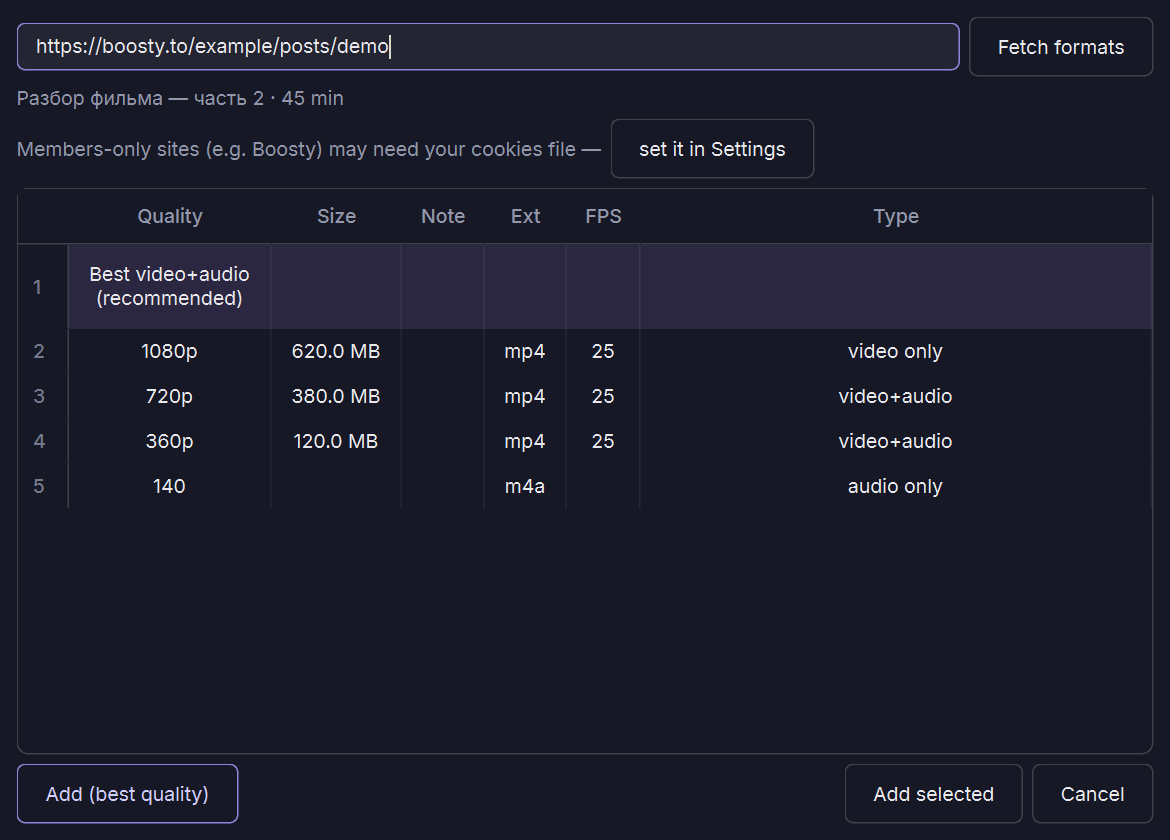
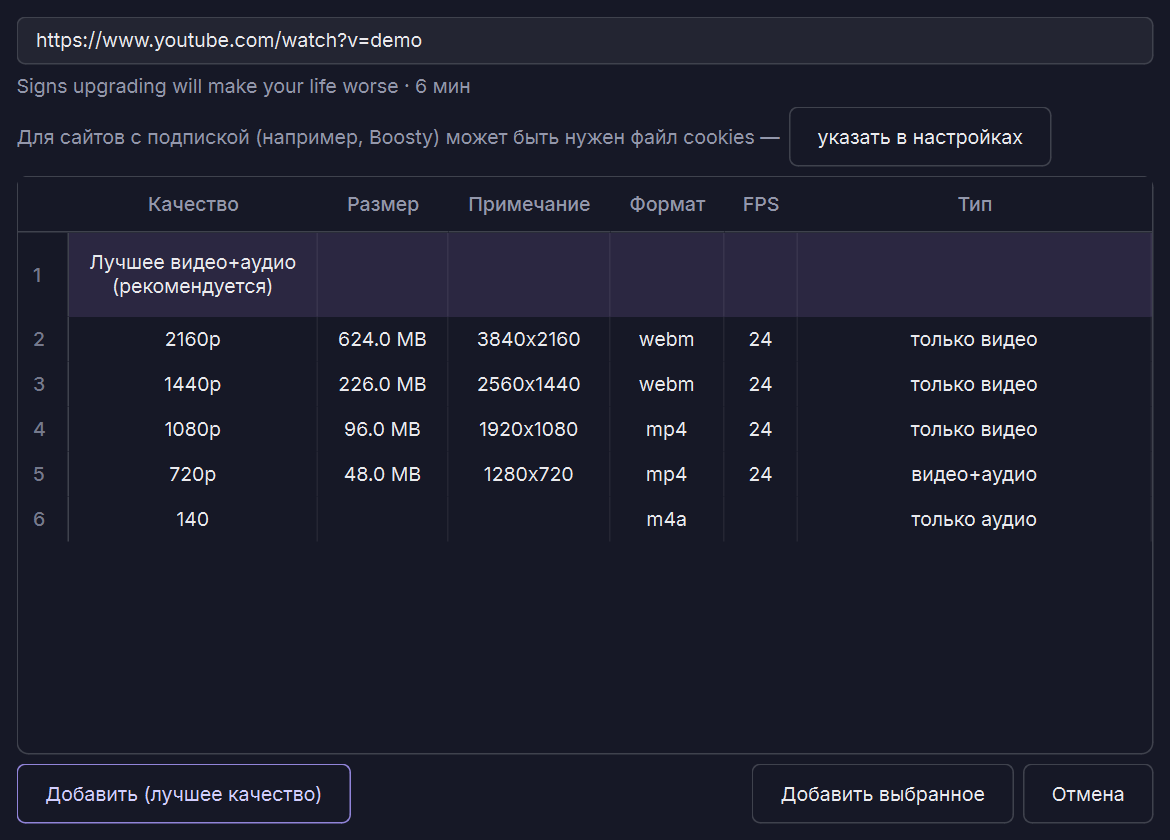
Add URL: formats load automatically
The fetch button is gone: format fetching triggers 800ms after typing
stops (Enter fetches immediately, prefilled URLs fetch on open), with
an indeterminate loading bar and status text while loading. Results
from a superseded fetch (URL edited mid-flight) are discarded via a
generation counter. Durations under a minute show seconds. Verified
live against a real URL end-to-end.

diff --git a/wordmute_app/ui/url_dialog.py b/wordmute_app/ui/url_dialog.py
@@ -1,7 +1,7 @@
 """Add-URL dialog: paste a link, optionally fetch yt-dlp's format list
 and pick a specific quality, or add straight away at best quality."""
 
-from PySide6.QtCore import Qt, QThread, Signal
+from PySide6.QtCore import Qt, QThread, QTimer, Signal
 from PySide6.QtWidgets import (
     QAbstractItemView,
     QDialog,
@@ -10,6 +10,7 @@ from PySide6.QtWidgets import (
     QHeaderView,
     QLabel,
     QLineEdit,
+    QProgressBar,
     QPushButton,
     QTableWidget,
     QTableWidgetItem,
@@ -48,7 +49,8 @@ class FormatListWorker(QThread):
 class AddUrlDialog(QDialog):
     COLUMNS = ["Quality", "Size", "Note", "Ext", "FPS", "Type"]
 
-    def __init__(self, parent=None, url: str = "", cookies=None):
+    def __init__(self, parent=None, url: str = "", cookies=None,
+                 auto_fetch: bool = True):
         super().__init__(parent)
         self.setWindowTitle(tr("Add URL"))
         self.resize(780, 560)
@@ -56,22 +58,31 @@ class AddUrlDialog(QDialog):
         self._info = None
         self._use_best = False
         self._cookies = cookies
+        self._fetch_generation = 0
 
         layout = QVBoxLayout(self)
-        url_row = QHBoxLayout()
         self.url_edit = QLineEdit(url)
         self.url_edit.setPlaceholderText("https://…")
-        self.fetch_button = QPushButton(tr("Fetch formats"))
-        self.fetch_button.clicked.connect(self._fetch)
-        url_row.addWidget(self.url_edit, stretch=1)
-        url_row.addWidget(self.fetch_button)
-        layout.addLayout(url_row)
+        # formats load automatically: debounce typing, Enter = right now
+        self._fetch_timer = QTimer(self)
+        self._fetch_timer.setSingleShot(True)
+        self._fetch_timer.setInterval(800)
+        self._fetch_timer.timeout.connect(self._fetch)
+        self.url_edit.textChanged.connect(self._schedule_fetch)
+        self.url_edit.returnPressed.connect(self._fetch)
+        layout.addWidget(self.url_edit)
 
-        self.status = QLabel(tr("Paste a video URL, then either fetch the "
-                                "format list or add it at best quality."))
+        self.status = QLabel(tr("Paste a video URL — the format list "
+                                "loads automatically."))
         self.status.setWordWrap(True)
         self.status.setProperty("muted", True)
         layout.addWidget(self.status)
+
+        self.loading_bar = QProgressBar()
+        self.loading_bar.setRange(0, 0)  # indeterminate
+        self.loading_bar.setTextVisible(False)
+        self.loading_bar.setVisible(False)
+        layout.addWidget(self.loading_bar)
 
         if not self._cookies:
             cookies_row = QHBoxLayout()
@@ -118,6 +129,8 @@ class AddUrlDialog(QDialog):
         buttons_row.addWidget(self.buttons)
         layout.addLayout(buttons_row)
         self._update_ok()
+        if auto_fetch and self._looks_like_url(url):
+            QTimer.singleShot(0, self._fetch)
 
     def _goto_settings(self):
         parent = self.parent()
@@ -130,23 +143,50 @@ class AddUrlDialog(QDialog):
     def _url(self) -> str:
         return self.url_edit.text().strip()
 
+    @staticmethod
+    def _looks_like_url(text: str) -> bool:
+        return text.strip().startswith(("http://", "https://"))
+
+    def _schedule_fetch(self):
+        if self._looks_like_url(self._url()):
+            self._fetch_timer.start()
+        else:
+            self._fetch_timer.stop()
+
     def _fetch(self):
         url = self._url()
-        if not url:
+        if not self._looks_like_url(url):
             return
-        self.fetch_button.setEnabled(False)
+        self._fetch_timer.stop()
+        self._fetch_generation += 1
+        generation = self._fetch_generation
         self.status.setText(tr("Fetching format list…"))
+        self.loading_bar.setVisible(True)
+        self.table.setRowCount(0)
+        self._info = None
+        self._update_ok()
         worker = FormatListWorker(url, cookies=self._cookies)
-        worker.ready.connect(self._on_formats_ready)
-        worker.error.connect(self._on_fetch_error)
+        # a newer fetch (edited URL) makes this one's result stale
+        worker.ready.connect(
+            lambda info, g=generation:
+            self._on_formats_ready(info)
+            if g == self._fetch_generation else None)
+        worker.error.connect(
+            lambda message, g=generation:
+            self._on_fetch_error(message)
+            if g == self._fetch_generation else None)
         worker.start()
 
     def _on_formats_ready(self, info: dict):
         self._info = info
-        self.fetch_button.setEnabled(True)
+        self.loading_bar.setVisible(False)
         duration = info.get("duration")
-        extra = (f" · {int(duration // 60)} {tr('min')}" if duration
-                 else "")
+        if duration and duration >= 60:
+            extra = f" · {int(duration // 60)} {tr('min')}"
+        elif duration:
+            extra = f" · {int(duration)} {tr('s')}"
+        else:
+            extra = ""
         self.status.setText(f"{info['title']}{extra}")
         self.table.setRowCount(0)
         self._add_row([tr("Best video+audio\n(recommended)"),
@@ -173,7 +213,7 @@ class AddUrlDialog(QDialog):
             self.table.setItem(row, col, item)
 
     def _on_fetch_error(self, message: str):
-        self.fetch_button.setEnabled(True)
+        self.loading_bar.setVisible(False)
         self.status.setText(
             tr("Could not fetch formats: {}").format(message))
 

diff --git a/tests/test_url_dialog.py b/tests/test_url_dialog.py
@@ -16,7 +16,8 @@ INFO = {
 
 def make_dialog(qapp, url="https://example.com/v"):
     from wordmute_app.ui.url_dialog import AddUrlDialog
-    return AddUrlDialog(url=url)
+    # auto_fetch off: tests must never hit the network
+    return AddUrlDialog(url=url, auto_fetch=False)
 
 
 def test_quick_add_best_without_fetch(qapp):
@@ -55,6 +56,25 @@ def test_format_table_and_selection(qapp):
 
 def test_fetch_error_shown(qapp):
     d = make_dialog(qapp)
+    d.loading_bar.setVisible(True)
     d._on_fetch_error("Unsupported URL")
     assert "Unsupported URL" in d.status.text()
-    assert d.fetch_button.isEnabled()
+    assert not d.loading_bar.isVisible()
+
+
+def test_stale_fetch_results_ignored(qapp):
+    d = make_dialog(qapp)
+    d._fetch_generation = 2  # a newer fetch superseded generation 1
+    handler_gen = 1
+    if handler_gen == d._fetch_generation:
+        d._on_formats_ready(INFO)
+    assert d.table.rowCount() == 0  # stale result never populated
+
+
+def test_debounce_starts_only_for_urls(qapp):
+    d = make_dialog(qapp)
+    d.url_edit.setText("not a url")
+    assert not d._fetch_timer.isActive()
+    d.url_edit.setText("https://example.com/other")
+    assert d._fetch_timer.isActive()
+    d._fetch_timer.stop()

diff --git a/wordmute_app/ui/i18n.py b/wordmute_app/ui/i18n.py
@@ -228,10 +228,9 @@ RU = {
         "Лучшее видео+аудио (рекомендуется)",
     "Best video+audio\n(recommended)":
         "Лучшее видео+аудио\n(рекомендуется)",
-    "Paste a video URL, then either fetch the format list or add "
-    "it at best quality.":
-        "Вставьте ссылку на видео, затем получите список форматов или "
-        "добавьте в лучшем качестве.",
+    "Paste a video URL — the format list loads automatically.":
+        "Вставьте ссылку на видео — список форматов загрузится "
+        "автоматически.",
     "Fetching format list…": "Получение списка форматов…",
     "Could not fetch formats: {}": "Не удалось получить форматы: {}",
     "Quality": "Качество",
